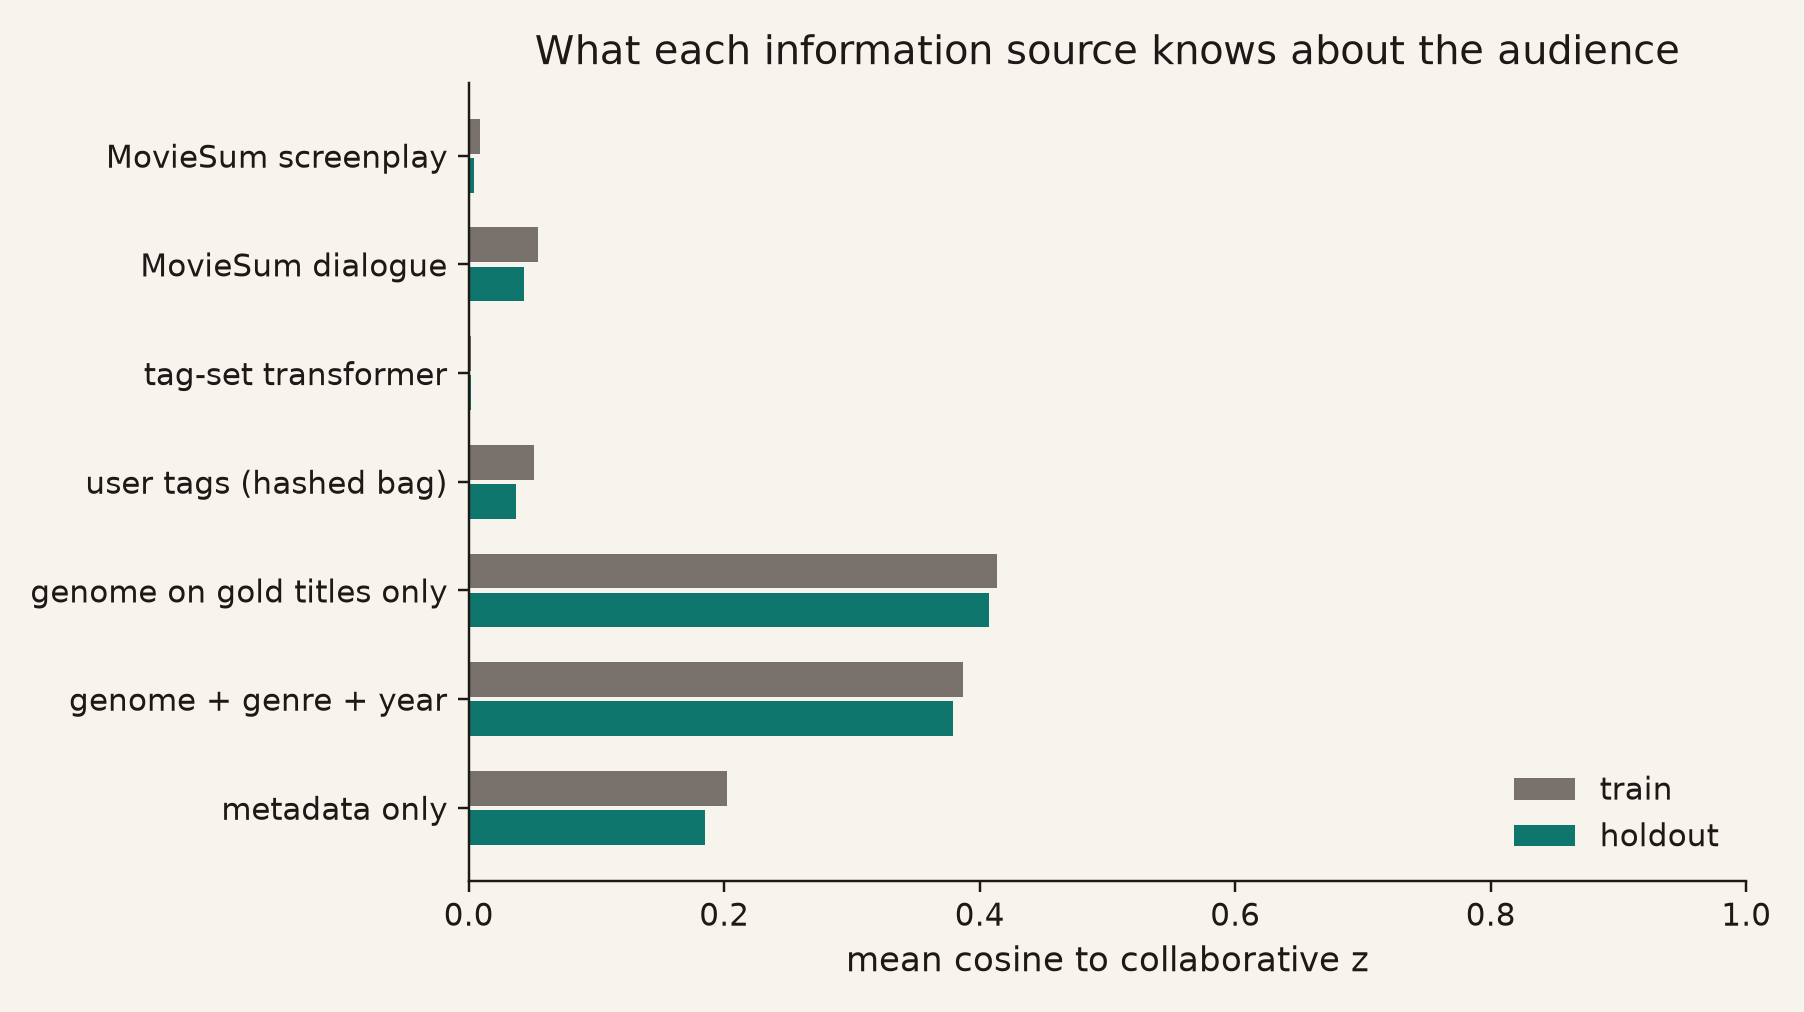
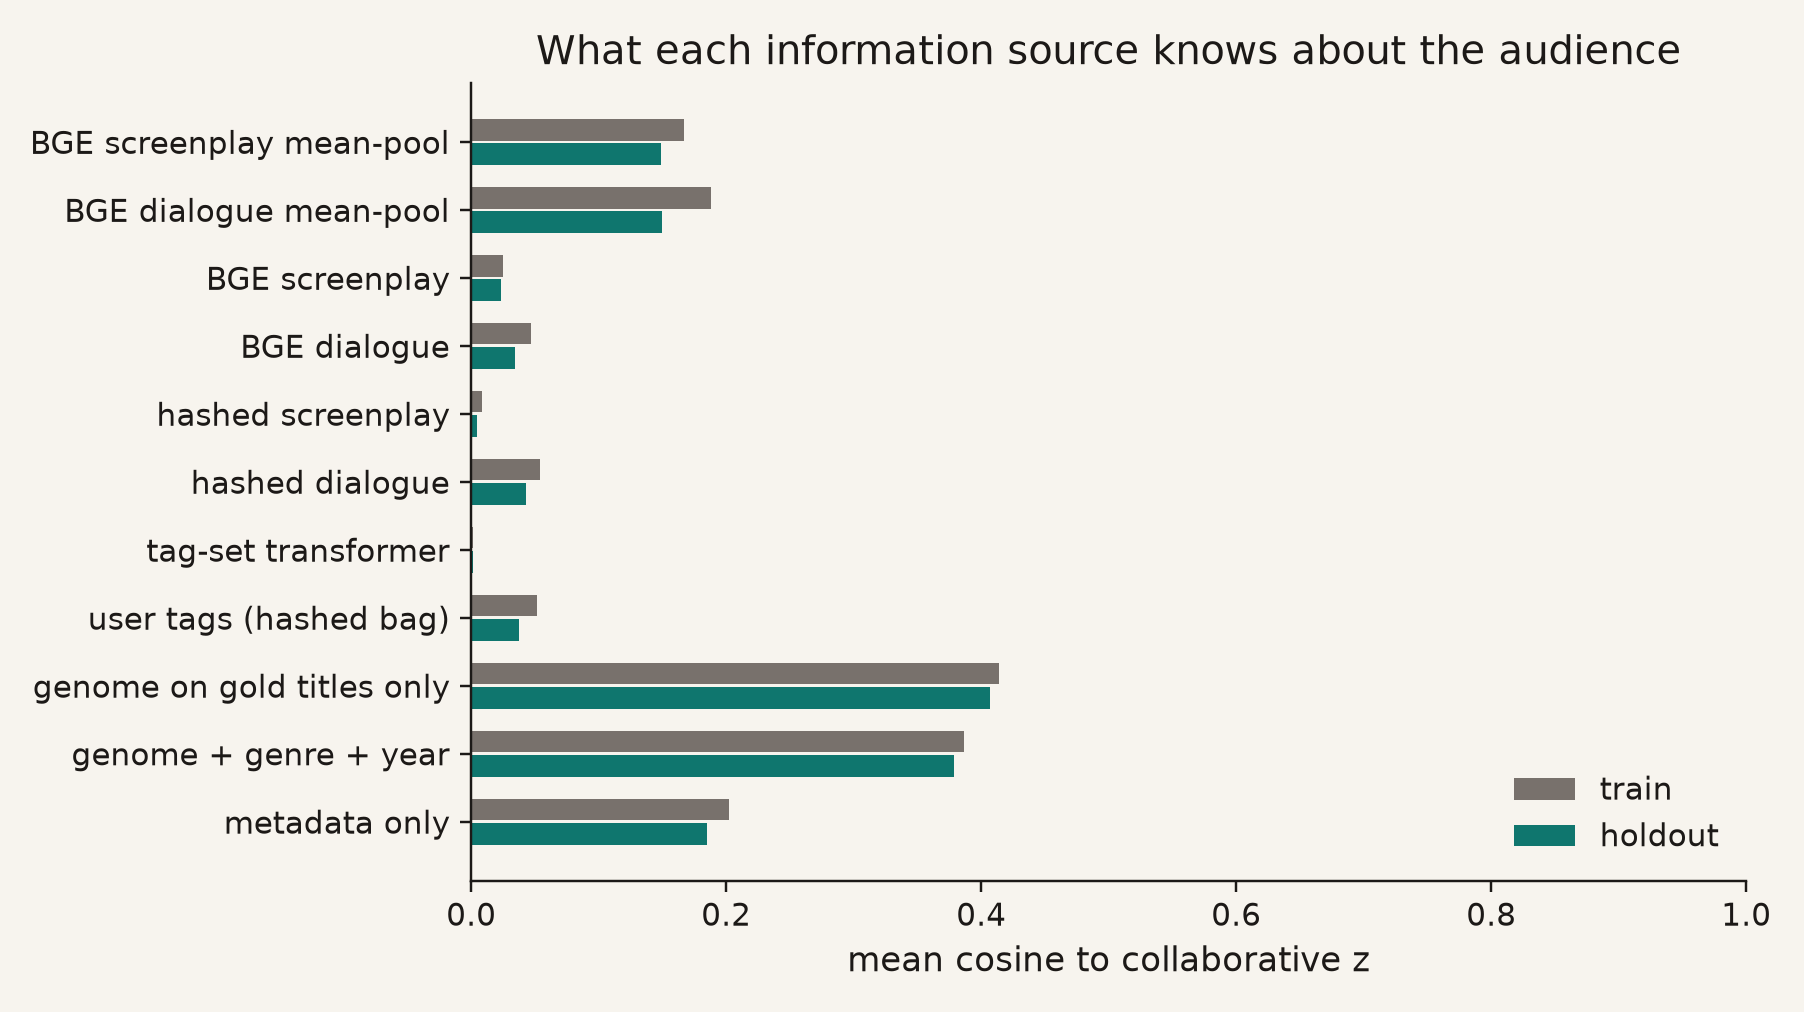
Report frozen BGE results: mean-pool recovers audience, set encoder does not.
Masked averages of scene embeddings reach ~0.15 holdout cosine; ISAB over the same vectors does not, and full screenplay still does not beat dialogue.

diff --git a/src/audience_predictor/report.py b/src/audience_predictor/report.py
@@ -67,6 +67,7 @@ def _findings() -> str:
     sp_b = data.get("screenplay_bge", {}).get("holdout", {})
     dl_b = data.get("dialogue_bge", {}).get("holdout", {})
     sm = data.get("screenplay_mean", {}).get("holdout", {})
+    dm = data.get("dialogue_mean", {}).get("holdout", {})
     if not g:
         return ""
     gold_note = ""
@@ -96,7 +97,18 @@ def _findings() -> str:
         b_dl = dl_b.get("cosine_mean", 0) if dl_b else 0
         b_delta = b_sp - b_dl
         h2b = "supported" if b_delta > 0.01 else ("not supported" if b_delta < -0.01 else "too close to call")
-        mean_txt = f" Mean-pool screenplay is {sm.get('cosine_mean', 0):.3f}." if sm else ""
+        mean_txt = ""
+        if sm or dm:
+            parts = []
+            if dm:
+                parts.append(f"dialogue mean-pool {dm.get('cosine_mean', 0):.3f}")
+            if sm:
+                parts.append(f"screenplay mean-pool {sm.get('cosine_mean', 0):.3f}")
+            mean_txt = (
+                " Masked-average MLP reaches "
+                + " / ".join(parts)
+                + " — near metadata, well above the set encoder on the same vectors."
+            )
         gold_note += f"""
 - **H2 frozen BGE ({h2b}).** Same holdout, ONNX BGE-small scene embeddings:
   screenplay {b_sp:.3f} vs dialogue {b_dl:.3f} (Δ={b_delta:+.3f}).{mean_txt}

diff --git a/reports/narrative-audience.md b/reports/narrative-audience.md
@@ -119,6 +119,10 @@ mean rating, rating std, P(r ≥ 4), and P(r ≤ 2).
 | genome_gold | 0.414 | 0.407 | 332 | 0.407 |
 | screenplay | 0.009 | 0.004 | 332 | 0.004 |
 | dialogue | 0.054 | 0.043 | 332 | 0.043 |
+| screenplay_bge | 0.025 | 0.023 | 332 | 0.023 |
+| dialogue_bge | 0.047 | 0.034 | 332 | 0.034 |
+| screenplay_mean | 0.167 | 0.149 | 332 | 0.149 |
+| dialogue_mean | 0.188 | 0.150 | 332 | 0.150 |
 
 
 ### What this run actually found
@@ -139,10 +143,14 @@ mean rating, rating std, P(r ≥ 4), and P(r ≤ 2).
   shrinks σ without making it track mistakes. Calibration needs a dedicated
   pass (temperature scaling or a proper heteroscedastic fit).
 
-- **H2 (not supported).** On MovieSum ∩ holdout (n=332), full screenplay
+- **H2 hashed (not supported).** On MovieSum ∩ holdout (n=332), full screenplay
   cosine is 0.004 vs dialogue-only 0.043 (Δ=-0.039).
   Matched-N genome (gold train only) is 0.407. Full-data genome scored on the same gold holdout is 0.436. Hashed n-grams of scene text do not recover z_i; a pretrained language encoder is the next lever, not more MovieSum scripts. Wikipedia summaries from MovieSum are **not** used — they leak
   post-release reception.
+
+- **H2 frozen BGE (not supported).** Same holdout, ONNX BGE-small scene embeddings:
+  screenplay 0.023 vs dialogue 0.034 (Δ=-0.011). Masked-average MLP reaches dialogue mean-pool 0.150 / screenplay mean-pool 0.149 — near metadata, well above the set encoder on the same vectors.
+  Equinox still trains the set aggregator; the language encoder is frozen.
 
 
 

diff --git a/docs/ROADMAP.md b/docs/ROADMAP.md
@@ -221,7 +221,7 @@ Until gold scripts land, silver text (tags, synopses) plus genome/metadata answe
 
 ## Later branches (after PR 6)
 
-**Gold screenplays (MovieSum first).** `ingest-moviesum` parses the Hugging Face XML dump, joins `tt` IMDb ids onto the catalog-value spine, and writes provenance + hashed blocks. No script text in git. Train `screenplay` vs `dialogue` on the overlap only.
+**Frozen encoder (this branch).** `ingest-moviesum --encoder bge` precomputes ONNX BGE-small scene vectors. Train `dialogue_mean` / `screenplay_mean` (MLP on masked averages) and `dialogue_bge` / `screenplay_bge` (set transformer). Mean-pool is currently the stronger narrative baseline.
 
 **Silver subtitles.** SubtitleCF / SubLens-20M (~19k files named by imdbID), then OpenSubtitles via OPUS for pretraining scale.
 
